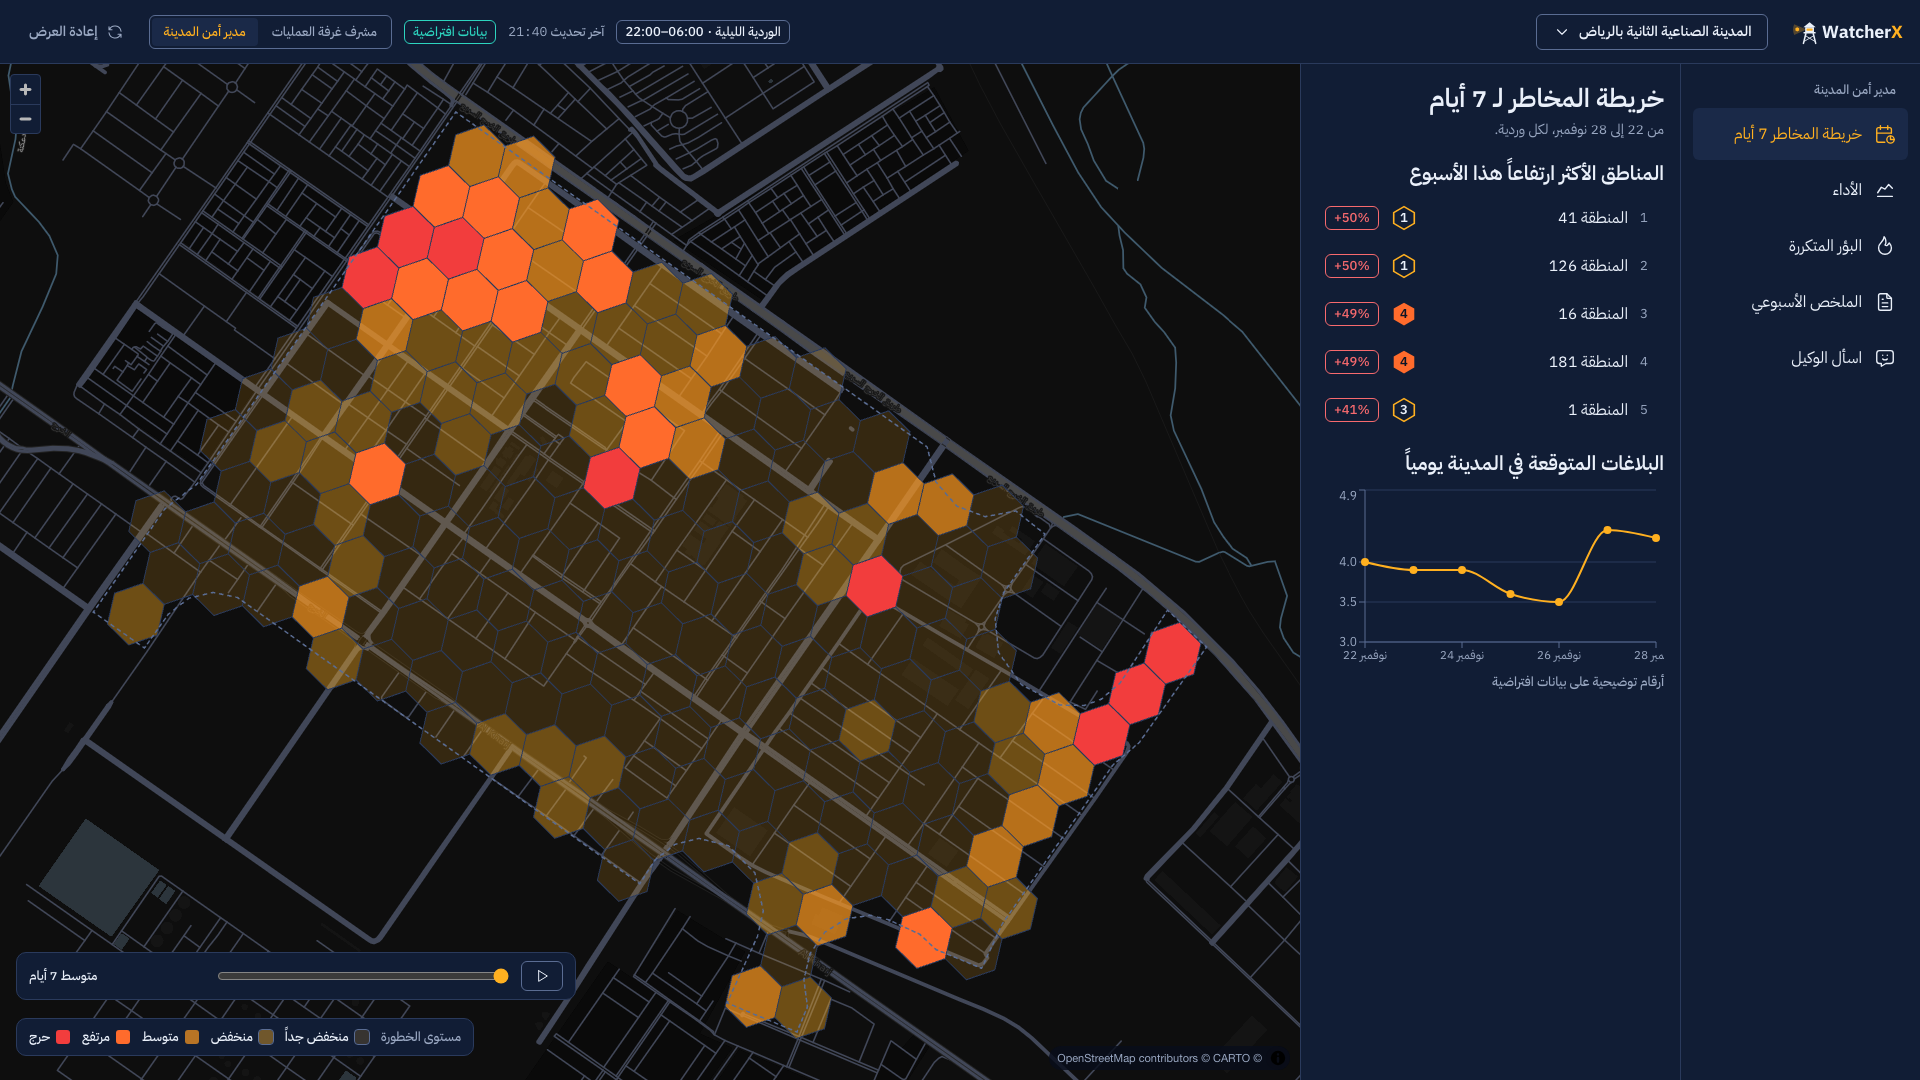
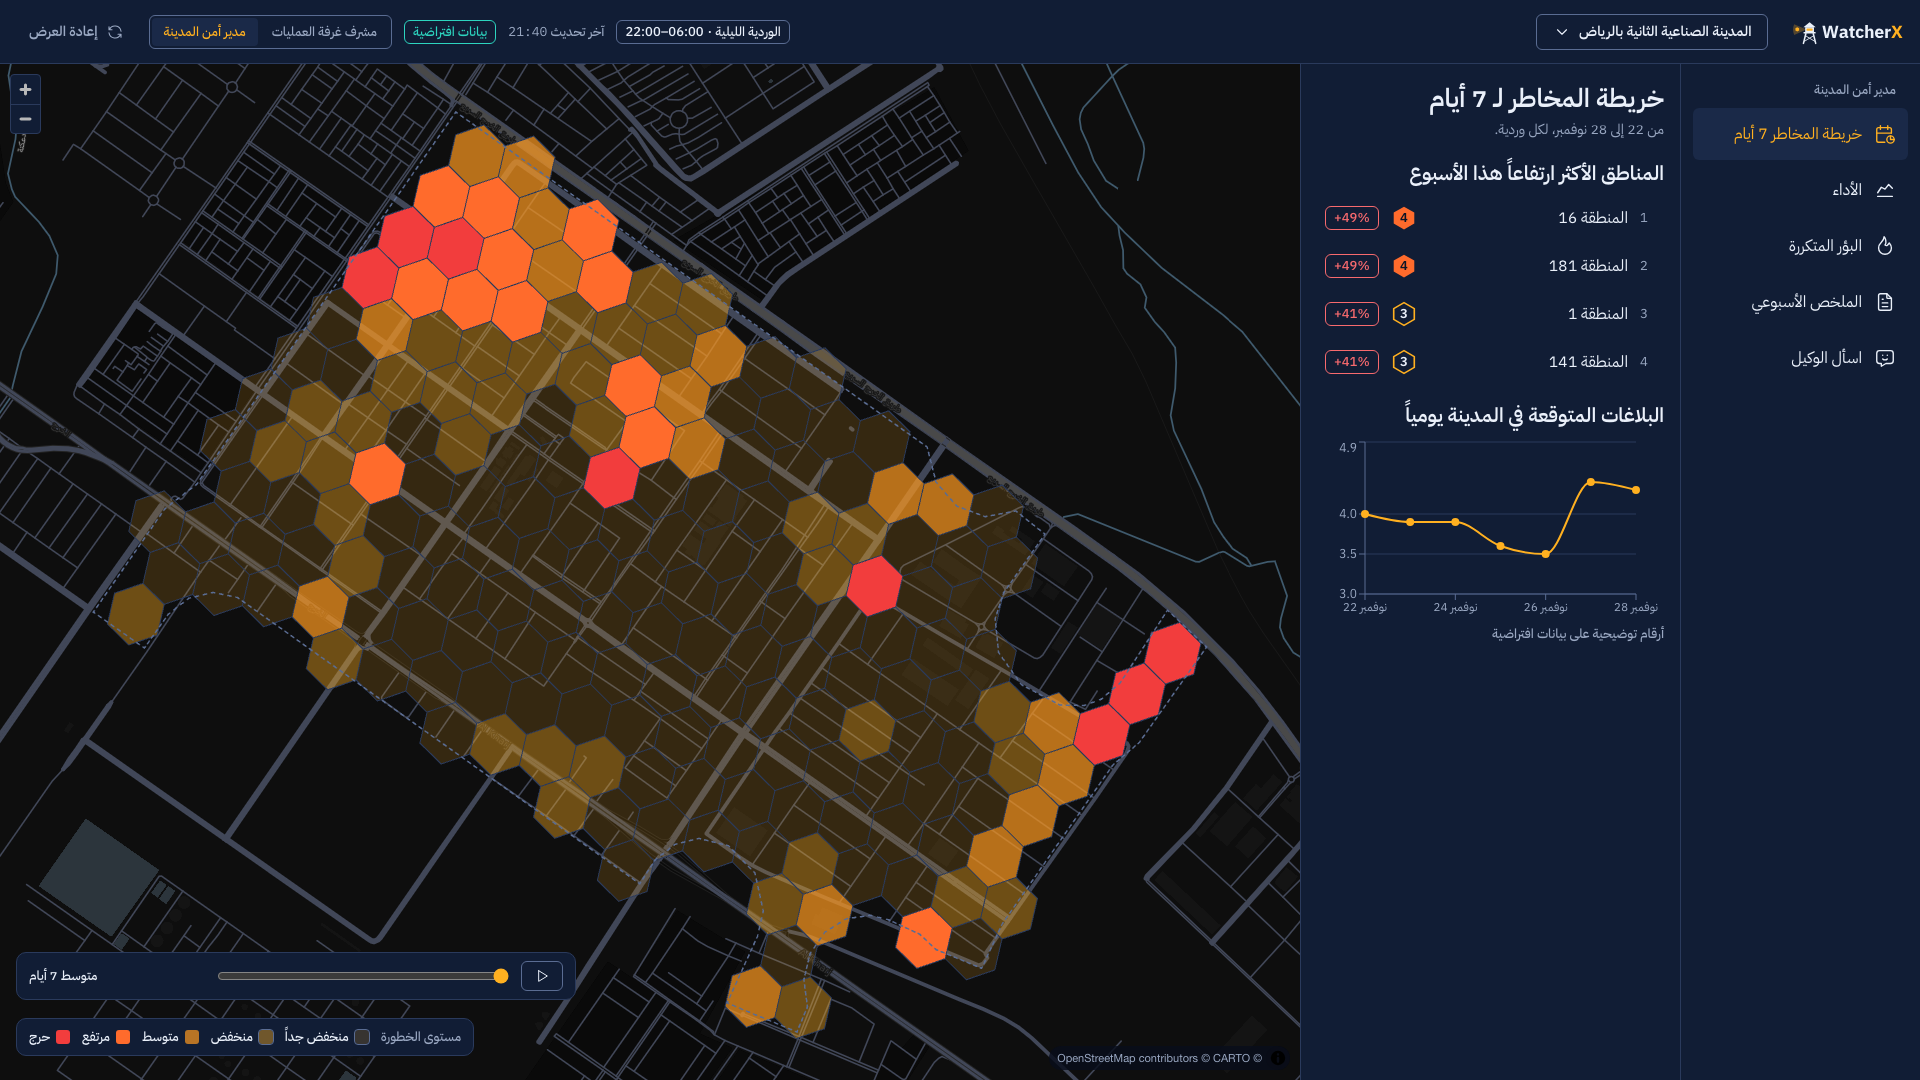
Add title/end cards, hand-off doc, rising-zone ranking fix

diff --git a/web/app/(app)/manager/forecast/page.tsx b/web/app/(app)/manager/forecast/page.tsx
@@ -74,7 +74,7 @@ export default function ForecastPage() {
           <div style={{ height: 190 }} dir="ltr">
             {f && (
               <ResponsiveContainer>
-                <LineChart data={f.city_daily} margin={{ top: 8, right: 8, left: -12, bottom: 0 }}>
+                <LineChart data={f.city_daily} margin={{ top: 8, right: 28, left: -12, bottom: 0 }}>
                   <CartesianGrid stroke="var(--line)" vertical={false} />
                   <XAxis dataKey="label_ar" tick={{ fill: 'var(--ink-muted)', fontSize: 12 }} interval={1} stroke="var(--line-strong)" />
                   <YAxis tick={{ fill: 'var(--ink-muted)', fontSize: 12 }} stroke="var(--line-strong)" domain={['dataMin - 0.5', 'dataMax + 0.5']} tickFormatter={(v) => Number(v).toFixed(1)} />

diff --git a/web/components/BrandCard.tsx b/web/components/BrandCard.tsx
@@ -1,0 +1,12 @@
+/* Full-screen card for the first and last seconds of the demo video. */
+export default function BrandCard({ children }: { children: React.ReactNode }) {
+  return (
+    <main className="grid h-screen place-items-center" style={{ background: 'var(--bg-deep)' }}>
+      <div className="flex flex-col items-center gap-8 text-center">
+        {/* eslint-disable-next-line @next/next/no-img-element */}
+        <img src="/brand/watcherx-lockup-on-dark.svg" alt="WatcherX" style={{ height: 96 }} />
+        {children}
+      </div>
+    </main>
+  );
+}

diff --git a/web/app/end/page.tsx b/web/app/end/page.tsx
@@ -1,0 +1,11 @@
+import BrandCard from '@/components/BrandCard';
+
+export default function EndCard() {
+  return (
+    <BrandCard>
+      <p className="display" style={{ color: 'var(--ink)' }}>نرى الخطر قبل وقوعه</p>
+      <p className="h3">فريق WatcherX · agentX الرياض</p>
+      <p className="label muted">بيانات افتراضية لأغراض العرض</p>
+    </BrandCard>
+  );
+}

diff --git a/web/app/title/page.tsx b/web/app/title/page.tsx
@@ -1,0 +1,10 @@
+import BrandCard from '@/components/BrandCard';
+
+export default function TitleCard() {
+  return (
+    <BrandCard>
+      <p className="display" style={{ color: 'var(--ink)' }}>نرى الخطر قبل وقوعه</p>
+      <p className="h3 muted">وكيل ذكي للتنبؤ بالحوادث الأمنية وتخطيط الدوريات في المدن الصناعية</p>
+    </BrandCard>
+  );
+}

diff --git a/data-gen/generate.py b/data-gen/generate.py
@@ -573,7 +573,7 @@ def main():
                    "change_pct": int(round(change[i])),
                    "trend": "rising" if change[i] >= 10 else "falling" if change[i] <= -10 else "flat",
                    "reasons_ar": reasons_for(i, rates, fac, ctx, dates7[0], "night")})
-    rising = sorted(z7, key=lambda z: -z["change_pct"])[:5]
+    rising = sorted([z for z in z7 if z["level"] >= 3 and z["change_pct"] > 0], key=lambda z: -z["change_pct"])[:5]  # medium risk or above
     dump("forecast_7d.json", {"generated_at": NOW.isoformat(), "steps": steps, "zones": z7, "city_daily": daily_expected,
                               "rising_top5": [{"id": z["id"], "change_pct": z["change_pct"]} for z in rising]})
 

diff --git a/HANDOFF.md b/HANDOFF.md
@@ -1,0 +1,85 @@
+# WatcherX demo: hand-off
+
+Clickable Arabic (RTL) demo of WatcherX for the Second Industrial City, Riyadh. **Tier 1**: every number comes from simple rules on synthetic data, not from trained models. Repo: `zawz6/watcherx-demo` (private).
+
+## Run it
+
+```bash
+cd web && pnpm install && pnpm dev          # http://localhost:3000
+pnpm build && npx serve out -l 3100          # production build (static export), used for screenshots
+BASE=http://localhost:3100 node scripts/screenshots.mjs   # writes ../shots/ss01..ss10 (1920x1080)
+BASE=http://localhost:3100 node scripts/flow-test.mjs     # 15 interaction checks
+cd ../data-gen && uv run python generate.py  # regenerates web/public/data/*.json (seed 42, about 2 s)
+```
+
+The basemap (CARTO Dark Matter) needs internet. Keep its attribution visible and check its usage terms before a public launch.
+
+## Screens
+
+| Route | Screen | What to show |
+|---|---|---|
+| `/title/` and `/end/` | Title and end cards for the video | Tagline, team name, «بيانات افتراضية لأغراض العرض» |
+| `/supervisor/map/` | S1 خريطة الوردية | Click a level-5 zone, read its 3 reasons. Shift and incident-type filters |
+| `/supervisor/plan/` | S2 خطة الدوريات المقترحة | 3 KPIs vs current plan, repeat-pattern warning, اعتماد الخطة, تعديل drawer |
+| `/supervisor/alerts/` | S3 التنبيهات المباشرة | Press **N** (or «محاكاة بلاغ جديد»): toast, pulse, risk update, suggestion, اعتماد moves the route |
+| `/supervisor/ask/` and `/manager/ask/` | S4 and M5 اسأل الوكيل | Suggested chips run scripted answers with the tool trace. Free typing matches keywords |
+| `/manager/forecast/` | M1 خريطة المخاطر لـ 7 أيام | Day slider and play button, rising zones |
+| `/manager/performance/` | M2 الأداء | KPI row, 12-week response chart, prediction-accuracy card |
+| `/manager/hotspots/` | M3 البؤر المتكررة | Approve a fix |
+| `/manager/brief/` | M4 الملخص الأسبوعي | Decisions are linked to M3 approvals |
+
+The header has the role switcher, the city switcher (other cities show «قريباً») and **إعادة العرض**, which resets every approval. Reset before each take.
+
+## Numbers for the deck (hand-off H2)
+
+**How they were produced:** `data-gen/generate.py`, seed 42, **rule-based** (the multipliers in the demo spec §6.3), not LightGBM or OR-Tools. 185 H3 zones, 180 days of synthetic incidents, 6 patrol cars on the night shift. The test window for the hit rate is 2026-10-22..2026-11-20 (151 incidents).
+
+**Label rule:** every number below is shown in the demo as «أرقام توضيحية على بيانات افتراضية». The shared brief's numbers rule is relaxed on this basis: use them in the deck only with that label.
+
+| Metric | Proposed (WatcherX) | Current fixed plan |
+|---|---|---|
+| Coverage of level 4–5 zones (zones that get a scheduled visit tonight) | 100% | 50% |
+| Average response time | 3.9 min | 4.3 min |
+| Worst-10% response time (p90) | 6.6 min | 7.7 min |
+| Hit rate: incidents in the top 10% riskiest zones | 22.5% | 18.5% («بؤر الشهر الماضي» baseline) |
+
+Last 4 weeks (M2 tiles, replaying each week's night incidents): average response 3.9 min vs 4.5 min on the current plan (-14%); incidents in the last 30 days 151 vs 113. The approval rate (81%) is a scripted usage figure, not measured.
+
+**Be honest about:** the hit-rate gap is modest (22.5% vs 18.5%) and the data are synthetic, generated by the same rules the score uses. Do not present it as a validation result.
+
+## Demo settings (assumptions, not MODON facts)
+
+6 / 4 / 3 cars on night / evening / morning shifts. Car speed 30 km/h on straight-line distance × 1.3 + 1 min dispatch. Shifts 06–14, 14–22, 22–06. "Now" is Saturday 21 Nov 2026, 21:40. Holiday dates are approximate (Eid al-Adha 26–30 May, National Day 23 Sep).
+
+**Coverage definition.** The spec defines coverage as high-risk zone-hours within 10 minutes of a car. The city is compact enough that both plans reach 100% under that rule, so the demo reports the share of level 4–5 zones that receive a scheduled patrol visit instead. The 10-minute target is still listed as a setting. Change `evaluate()` in `generate.py` if you prefer the original definition.
+
+**Repeat pattern.** Tonight's plan puts the riskiest zone at 22:00 on 7 of the last 7 replayed nights (Z147), so the warning is real, not scripted. Two alternative windows are shown.
+
+**Manager story.** Northern thefts rose after two sites closed (24 and 29 Oct) and a lighting fault began on 27 Oct. Those causes are built into the generator, so the chat answer matches the data.
+
+## Screenshots (hand-off H1)
+
+`shots/ss01_shift_map.png` … `ss10_zone_closeup.png`, 1920×1080, night theme, «بيانات افتراضية» chip visible, no cursor. Regenerate after any data change.
+
+## Video run sheet
+
+Target 2:00–3:00, 1920×1080, browser full screen at 100% zoom, **reset first**.
+
+| Time | Action | Voice-over |
+|---|---|---|
+| 0:00–0:10 | `/title/` | «WatcherX: وكيل ذكي يتنبأ بالحوادث الأمنية في المدن الصناعية ويقترح خطط الدوريات.» |
+| 0:10–0:35 | `/supervisor/map/`: click the top zone, read the reasons | «قبل كل وردية، يتنبأ الوكيل بمستوى الخطورة لكل منطقة، ويشرح الأسباب بلغة واضحة.» |
+| 0:35–1:05 | `/supervisor/plan/`: KPIs, pattern warning, اعتماد الخطة | «ثم يقترح خطة دوريات تغطي المناطق الأخطر، ويقارنها بالخطة الحالية، وينبّه إلى الأنماط المتكررة. والقرار دائماً للمشرف.» |
+| 1:05–1:35 | `/supervisor/alerts/`: press **N**, اعتماد | «عند ورود بلاغ جديد، يحدّث الوكيل التوقعات فوراً ويقترح تحريك أقرب دورية.» |
+| 1:35–2:00 | `/supervisor/ask/`: chip «دوريتان معطلتان الليلة…» | «ويمكن للمشرف أن يسأل الوكيل مباشرة، فيعيد التخطيط ويعرض الأثر بالأرقام.» |
+| 2:00–2:30 | Role switch, `/manager/hotspots/` approve, `/manager/brief/` scroll | «ولمدير أمن المدينة، يكتشف الوكيل البؤر المتكررة ويقترح حلولاً دائمة، ويكتب ملخصاً أسبوعياً.» |
+| 2:30–2:45 | `/manager/performance/` | «وكل ذلك يعمل على خوادم مدن نفسها، دون أن تغادر البيانات المملكة.» |
+| 2:45–3:00 | `/end/` | «WatcherX — نرى الخطر قبل وقوعه.» |
+
+Upload to YouTube (unlisted) or Google Drive (anyone with the link) and test the link in an incognito window (hand-off H3).
+
+## Known limits
+
+- Chat answers are scripted. Free typing needs 2 or more keyword hits, otherwise the agent says it only answers the suggested questions.
+- Only the night plan is generated; morning and evening show forecasts but no plan.
+- No live backend and no LLM: the agent trace is a recorded replay of the steps.

diff --git a/README.md b/README.md
@@ -1,6 +1,9 @@
 # WatcherX demo
 
-Clickable Arabic (RTL) demo of WatcherX for the Second Industrial City, Riyadh. All data is synthetic.
+Clickable Arabic (RTL) demo of WatcherX for the Second Industrial City, Riyadh. All data is synthetic and rule-based (Tier 1).
 
-- `data-gen/`: Python script that builds the synthetic JSON
-- `web/`: Next.js app
+- `data-gen/`: `generate.py` builds zones, incidents, forecasts, plans and agent content as JSON (`uv run python generate.py`)
+- `web/`: Next.js app (static export) that reads that JSON
+- `shots/`: the 10 deck screenshots
+
+See [HANDOFF.md](HANDOFF.md) for how to run it, the numbers for the deck and the video run sheet.
